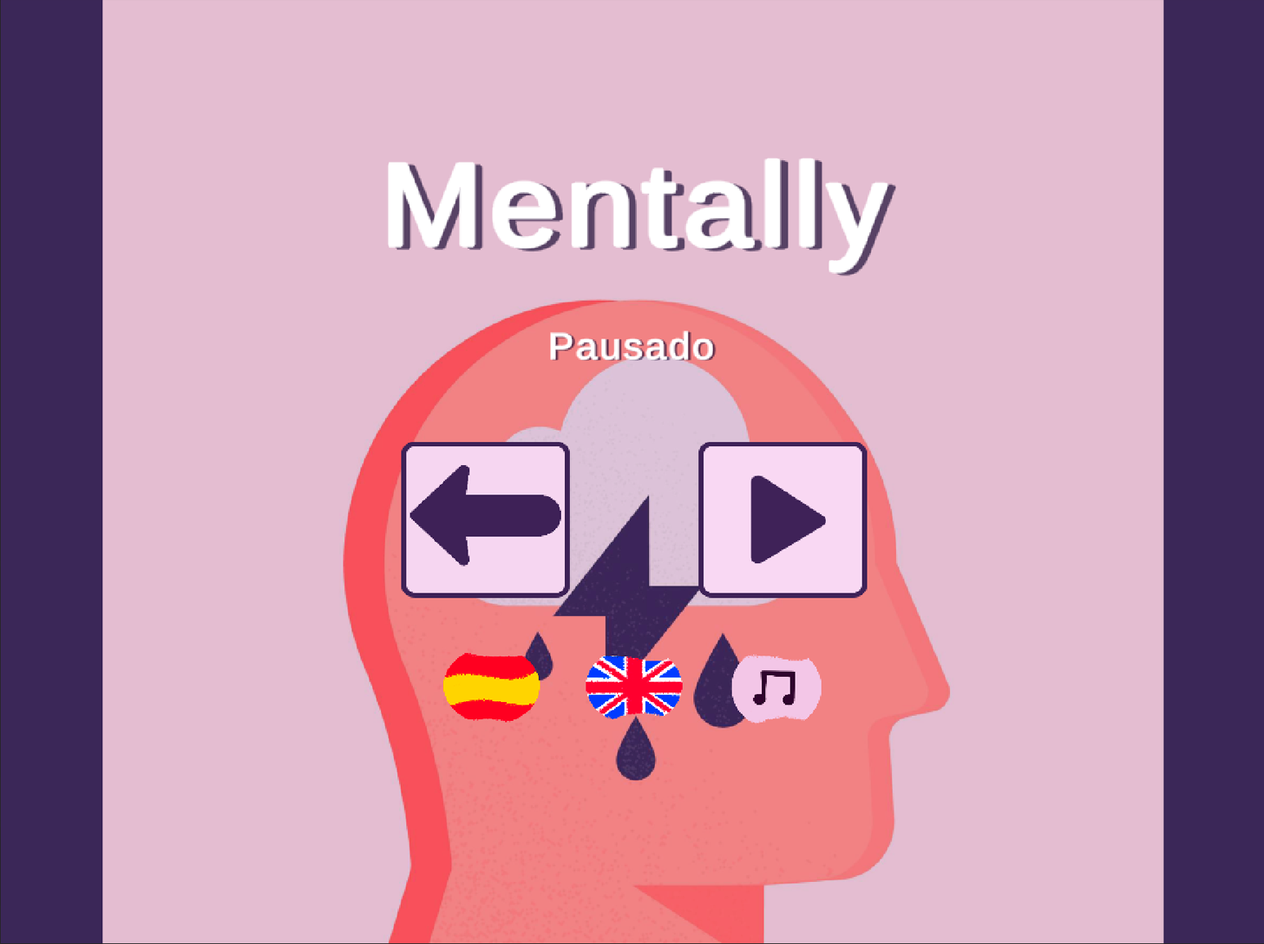
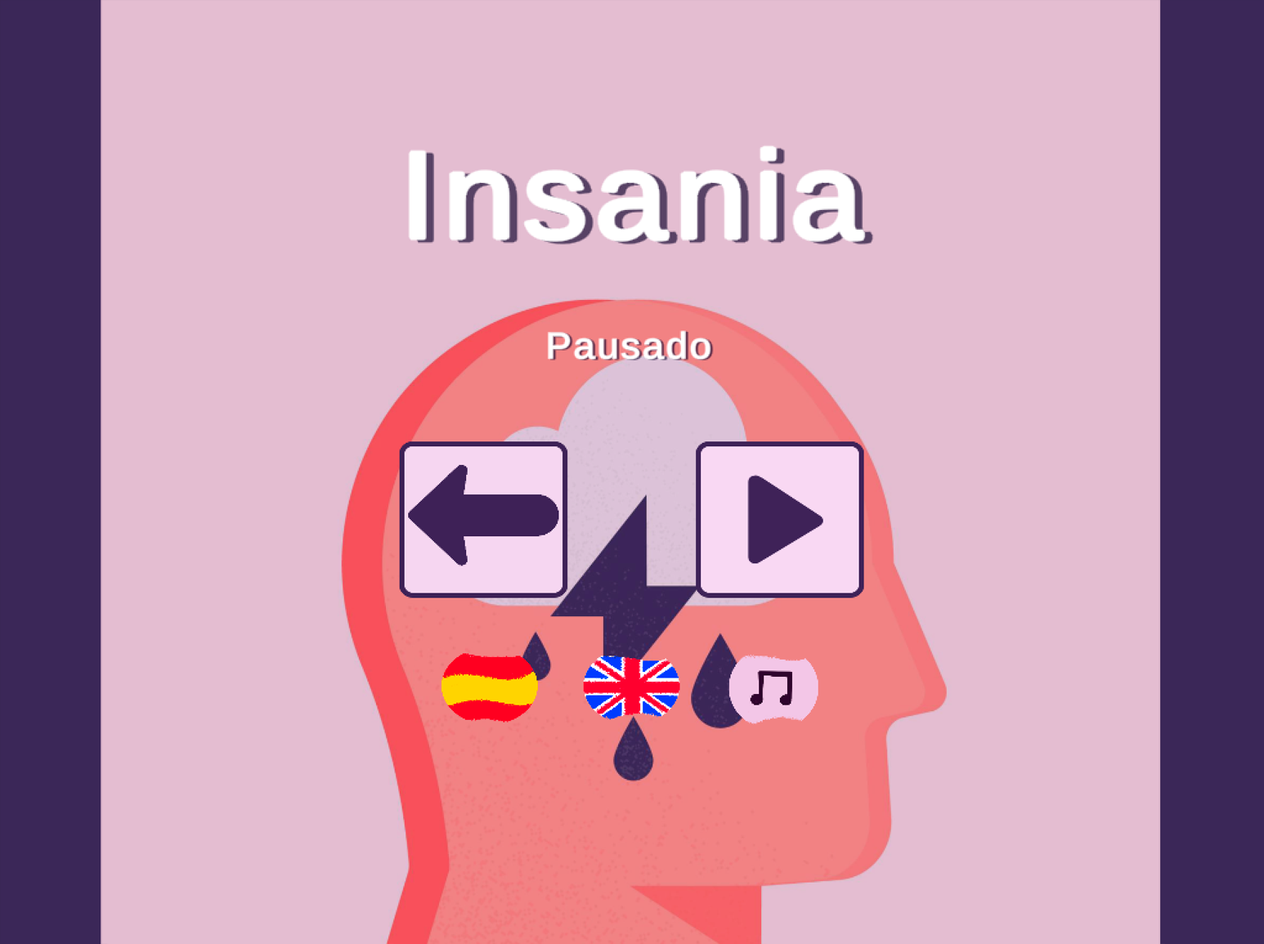
Modificación objetivos + cambio nombre

diff --git a/0410.tex b/0410.tex
@@ -310,20 +310,24 @@ Hasta hace unos años, la mayoría de las representaciones de enfermedades menta
 
 
 \section{Objetivos principales}
-    Los objetivos principales de este trabajo son investigar y analizar cuál es la situación actual con respecto a los videojuegos y la representación que hacen de las enfermededades mentales. Se comprobará también qué enfermedades suelen representarse y de qué forma. Además, se observará cómo ha ido variando a lo largo del tiempo esta representación.
+
+    Los objetivos principales de este trabajo son investigar y analizar cuál es la situación actual con respecto a los videojuegos y la representación que hacen de las enfermededades mentales, dado que a primera vista se considera insuficiente. Se comprobará también qué enfermedades suelen representarse y de qué forma. Además, se observará cómo ha ido variando a lo largo del tiempo esta representación.
     
-    A raíz del análisis de la representación de las enfermedades mentales, se investigará también cómo puede afectar una mejor o peor representación para la sociedad. Aparte de esto, cómo pueden ayudar en general los videojuegos y qué puede hacerse para desarrollar videojuegos más correctos al tratar este tema.  
+    De ese modo se tendrá una base para realizar un prototipo de una experiencia jugable donde se apliquen los conocimientos obtenidos, se traten las enfermedades mentales menos representadas o que requieran más representación, y se mostrará una nueva forma de representar enfermedades mentales en videojuegos. En este caso, con una experiencia jugable que se centra en la enfermedad en sí.
     
    
     \section{Objetivos secundarios}
     
-    Una vez analizados los resultados obtenidos, se creará un prototipo de una experiencia jugable donde se apliquen los conocimientos obtenidos, se traten las enfermedades mentales menos representadas o que requieran más representación, y se mostrará una nueva forma de representar enfermedades mentales en videojuegos. En este caso, con una experiencia jugable que se centra en la enfermedad en sí. 
-    
-
-
-
+     Se analizará tanto el estado del arte de los videojuegos, en general, como la opinión de una serie de encuestados, para conocer la frecuencia con la que se conocen videojugeos que muestren enfermedades mentales y cómo se sienten con respecto a estas representaciones. Esto se podrá encontrar, tanto en la sección \ref{sec:estadoArte} como en la sección \ref{sec:encuestaVid}.       
+       
+     A raíz del análisis de la representación de las enfermedades mentales, se investigará también cómo puede afectar una mejor o peor representación para la sociedad. Aparte de esto, cómo pueden ayudar en general los videojuegos y qué puede hacerse para desarrollar videojuegos más correctos al tratar este tema.   
+     
+     Para el desarrollo del prototipo se realizará un diseño del videojuego, que se puede encontrar en la sección \ref{sec:diseño} tanto software como de las artes, diseñando los personajes su historia, motivo de su creación, trasfondo, etc. en base a los estudios previamente realizados. 
+     
+     Finalmente, se creará una evaluación del prototipo para corregir los defectos reportados así como las mejoras propuestas por los encuestados, que se puede encontrar en la sección \ref{sec:encuestaDemo}. 
+  
 \chapter{Estado del arte}
-
+\label{sec:estadoArte}
 \section{Análisis de videojuegos}
 
 Para el análisis de videojuegos se han escogido videojuegos desde los años 80 a la actualidad donde se represente algún tipo de enfermedad o trastorno mental, bien de forma explícita o implícita, bien estando la historia basada en la propia enfermedad o apareciendo en personajes secundarios, etc. Esta selección se ha hecho en base al conocimiento sobre ellos, la información que se ha podido recabar, su importancia, y otros motivos. Seguro que se quedan muchos otros videojuegos fuera del estudio, no obstante, el análisis se hará finalmente sobre 56 títulos, siendo uno de ellos la demo desarrollada para este TFG, para la cual se han tenido en consideración los resultados del análisis sobre el resto de videojuegos. 
@@ -828,16 +832,19 @@ En este caso, parece que hicieron un buen trabajo, pues recibieron una gran cant
 
 \chapter{Metodología}
 
-En primer lugar, la planificación seguida ha sido aproximadamente la siguiente \ref{fig:planificacion}. 
 
 \begin{figure}
-    \centering
-    \includegraphics[width=.8\linewidth]{TGF/Extra/Planificación.png}
-    \caption{Planificación del TFG}
-    \label{fig:planificacion}
+	\centering
+	\includegraphics[width=1\linewidth]{TGF/Extra/Planificación.png}
+	\caption{Planificación del TFG}
+	\label{fig:planificacion}
 \end{figure}
 
 
+En primer lugar, la planificación seguida ha sido aproximadamente la siguiente \ref{fig:planificacion}. 
+
+
+\section{Herramientas utilizadas}
 En cuanto a las herramientas utilizadas, el proyecto ha sido realizado en Unity \cite{unity}, un motorde videojuegos multiplataforma creado por Unity Technologies. La programación que ofrece este entorno se realiza en C\#. La licencia utilizada ha sido Unity Education. 
 
 Por otro lado se ha utilizado 3dsMax 2022 \cite{3dsmax} para la creación y modificación de algún modelo 3D. 3dsMax es un programa de Autodesk para la creación de gráficos y animación 3D. La licencia utilizada ha sido la educacional, que ofrece un año gratuito en el uso del software. 
@@ -865,19 +872,32 @@ Para la recogida de información y organización se han utilizado tanto Google D
 
 Con respecto a la integración continua en el proyecto, se ha hecho uso de Github \cite{github}, una herramienta de control de versiones, que hace uso de Git \cite{git}, donde se ha ido subiendo periódicamente el código y configuración del proyecto para que se tuviera acceso en todo momento. Se ha utilizado la versión de uso libre. 
 
-Se ha utilizado Github Desktop \cite{githubdesk} para hacer las subidas a Github con un mayor control sobre los archivos que se subían, mayor facilidad a la hora de hacerlo, etc. 
+Se ha utilizado Github Desktop \citetitle{githubdesk} para hacer las subidas a Github con un mayor control sobre los archivos que se subían, mayor facilidad a la hora de hacerlo, etc. 
 
-Por último, para la búsqueda de recursos se ha utilizado Turbosquid \cite{turbo}, freepik \cite{freepik} y CGTrader \cite{CGTrader}, entre otros. 
-
-
+Por último, para la búsqueda de recursos se ha utilizado Turbosquid \citetitle{turbo}, freepik \citetitle{freepik} y CGTrader \citetitle{CGTrader}, entre otros. 
 
 
-\chapter{Diseño de la demo}
 
+
+\chapter{Diseño y desarrollo de ``Insania''}
+
+Gracias a la información recabada durante la investigación, que puede encontrarse tanto en la sección \ref{sec:estadoArte} como en la encuesta realizada que se puede encontrar en la sección \ref{sec:encuestaVid}, se ha diseñado y desarrollado un prototipo de videojuego que trata diferentes enfermedades mentales. 
+
+En este prototipo, llamado ``Insania'', por su significado en latín, ``locura'', se podrá experimentar un poco cómo es vivir con determinados trastornos mentales, un trastorno de la conducta alimentaria, el trastorno de ansiedad social y la depresión. 
+
+La finalidad es la representación y validación de las experiencias de estos personajes, de forma que los jugadores puedan sentirse identificados y, de ese modo, validados, por ellos mismos. En algunos casos puede ser duro enfrentarse a ciertos comentarios si se han llegado a tener o se tienen en algún momento, pero otras personas podrán considerar a estos personajes unos compañeros de batallas que pueden darles fuerza.
+
+Se quiere, además, concienciar de que, pese a que no seamos psicólogos, podemos darnos cuenta de algunos detalles que pueden hacer saltar las alarmas y dar apoyo a quien creamos que puede estar pasando por algún mal momento. 
+
+Es frecuente escuchar a la gente hacer comentarios sobre ``lo poco que come alguien'', escuchar un ``no voy a hablar por ti, si lo quieres, entra tú y lo pides'', cuando una persona probablemente tiene pánico a entrar en sitios con gente y hablar con desconocidos o ``pero por qué estás triste, si todo te va bien''. Invalidar los problemas de los demás o no percibir que algo puede estar pasando puede hacer que esos trastornos vayan a más y las personas se recluyan aún más y lo sufran en soledad al sentirse atacados ``en público''. 
+
+Además, el problema muchas veces no viene simplemente de la falta de empatía o de querer hacer daño, viene de la falta de información, de no saber que ese comentario puede hacer sentir mal, de que, que una persona nunca quiera comer con gente puede significar algo más que ``que no tenga hambre''. Sin conocimiento se pueden decir muchas palabras dañinas sin saber que lo son, por eso cuanto más se hable de salud mental, mejor será para todos. 
+
+\label{sec:diseño}
 \section{Diseño general}
-Partiendo del estudio previo realizado, analizando qué enfermedades se representan en videojuegos, de qué forma se hace y cómo es percibido por el público, tanto gente que las sufre como quienes no saben nada sobre ellas, se ha realizado una demo tratando de plasmar algunas de las enfermedades de las que menos se habla. 
+Partiendo del estudio previo realizado, analizando qué enfermedades se representan en videojuegos, de qué forma se hace y cómo es percibido por el público, tanto gente que las sufre como quienes no saben nada sobre ellas, se ha realizado un prototipo de videojuego, tratando de plasmar algunas de las enfermedades de las que menos se habla. 
 
-Por ese motivo en la demo se tratan tres enfermedades diferentes, y se muestra en cierta medida cómo es vivir con ellas. Estas enfermedades son un TCA, que, volviendo al estudio de videojuegos previamente realizado en la seccion \ref{sec:enfermedades}, sólo se mostraba en dos videojuegos, siendo uno de ellos esta misma demo y el otro, en \citetitle{darkest15}, donde los personajes pueden padecer bulimia, que les hace es recuperar menos vida cuando acampan. (\citetitle{darkest15} es un videojuego donde el jugador selecciona un grupo de personajes que deben ir de expedición a una mazmorra, en la cual se tienen que enfrentar a enemidos en un combate por turnos. Si la mazmorra es muy grande podrán descansar en un campamento donde pueden recuperar vida y cordura utilizando habilidades o comida, de ahí el hecho de que un personaje bulímico recupere menos vida en un campamento). Sin embargo no se trata la enfermedad como tal, sólo se hace un pequeño guiño. 
+Por ese motivo en la demo se tratan tres enfermedades diferentes, y se muestra en cierta medida cómo es vivir con ellas. Estas enfermedades son un TCA, que, volviendo al estudio de videojuegos previamente realizado en la seccion \ref{sec:enfermedades}, sólo se mostraba en dos videojuegos, siendo uno de ellos esta misma demo y el otro, en \citetitle{darkest15}, donde los personajes pueden padecer bulimia, que les hace es recuperar menos vida cuando acampan. (\citetitle{darkest15} es un videojuego donde el jugador selecciona un grupo de personajes que deben ir de expedición a una mazmorra, en la cual se tienen que enfrentar a enemidgs en un combate por turnos. Si la mazmorra es muy grande podrán descansar en un campamento donde pueden recuperar vida y cordura utilizando habilidades o comida, de ahí el hecho de que un personaje bulímico recupere menos vida en un campamento). Sin embargo no se trata la enfermedad como tal, sólo se hace un pequeño guiño. 
 
 En el caso de la segunda enfermedad seleccionada, es el TAS (Trastorno de Ansiedad Social), enfermedad presente en tan sólo 4 de los videojuegos analizados, de nuevo siendo uno esta misma demo. Algunos de los videojuegos donde se representa son \citetitle{sym15} o \citetitle{lifeisstrange18}. Por ejemplo, \citetitle{sym15}, es un videojuego que explora la ansiedad social, representando al personaje en un laberinto dividido en dos submundos, uno que representa la vida normal y otro el lugar donde escapar de sus miedos. 
 
@@ -885,25 +905,15 @@ Por último, se ha escogido la depresión, en este caso no por la falta de repre
 
 Las representaciones de la depresión suelen ser exageraciones de la realidad, de los síntomas, y de quienes lo padecen. Sin embargo, es una enfermedad que se sufre de muchas formas diferentes, y mucha gente la vive en silencio, sin saber que la padece, con mucho sufrimiento y sin pedir ningún tipo de ayuda, pues consideran que ``no están tan mal para tener depresión'', otros que ``eso es de flojos'' o incluso no consideran que sus problemas sean realmente importantes comparado con los de los demás y no tienen derecho a estar mal y quejarse. Mucha de esta gente acaba con tentativas de suicidio o sucumbiendo a él, y es por ello que ninguna representación es suficiente, y cuanta más representación y más diversa ésta sea, más gente se podrá ver reflejado y podrá entender qué le pasa y que la mejor solución es pedir ayuda y que no pasa nada por no estar bien y que se puede hablar de ello. 
 
-Con esta demo, en definitiva, se quiere tratar de hablar de otras enfermedades, que quienes la jueguen experimenten experiencias que pueden haber vivido si no por ellos mismos, por gente a la que conocen pero desconocían que podía deberse a algún problema. Se quiere concienciar de que, pese a que no seamos psicólogos, podemos darnos cuenta de algunos detalles que pueden hacer saltar las alarmas y dar apoyo a quien creamos que puede estar pasando por algún mal momento. 
-
-Es frecuente escuchar a la gente hacer comentarios sobre ``lo poco que come alguien'', escucuchar un ``no voy a hablar por ti, si lo quieres, entra tú y lo pides'', cuando una persona probablemente tiene pánico a entrar en sitios con gente y hablar con desconocidos o ``pero por qué estás triste, si todo te va bien''. Invalidar los problemas de los demás o no percibir que algo puede estar pasando puede hacer que esos trastornos vayan a más y las personas se recluyan aún más y lo sufran en soledad al sentirse atacados ``en público''. 
-
-Además, el problema muchas veces no viene simplemente de la falta de empatía o de querer hacer daño, viene de la falta de información, de no saber que ese comentario puede hacer sentir mal, de que, que una persona nunca quiera comer con gente puede significar algo más que ``que no tenga hambre''. Sin conocimiento se pueden decir muchas palabras dañinas sin saber que lo son, por eso cuanto más se hable de salud mental, mejor será para todos. 
 
 
-
-\subsection{Descripción breve}
-En esta demo se podrá experimentar un poco cómo es vivir con cada uno de los tratornos mencionados, un trastorno de la conducta alimentaria, trastorno de ansiedad social y depresión. 
-
-No se pretende generalizar y considerar como únicas estas vivencias, simplemente dar una nueva perspectiva. 
 
 \subsection{Personajes y trastornos}
 
 
-La demo cuenta con tres personajes diferentes, cada uno de ellos seleccionable para disfrutar de una diferente experiencia de juego. Cada personaje padece un trastorno o enfermedad mental diferente, de forma que vivirán las situaciones que se le plantean y tendrá un comportamiento diferente teniendo esto en cuenta.  
+El prototipo cuenta con tres personajes diferentes, cada uno de ellos seleccionable para disfrutar de una diferente experiencia de juego. Cada personaje padece un trastorno o enfermedad mental diferente, de forma que vivirán las situaciones que se le plantean y tendrá un comportamiento diferente teniendo esto en cuenta.  
 
-\textbf{Personaje 1}: (nombre). Este personaje padecerá un trastorno de la conducta alimentaria (TCA). 
+\textbf{Personaje 1}: Este personaje padecerá un trastorno de la conducta alimentaria (TCA). Su diseño puede encontrarse en la sección \ref{sec:diseñoPersonajes}.
 
 \begin{itemize}
     \item {\textbf{Descripción del trastorno:}   Estas enfermedades ``se caracterizan por una conducta alterada frente a la ingesta alimentaria o la aparición de conductas para controlar el peso'' \cite{tcasdescripcion}. Estos trastornos están relacionados, generalmente, con la autopercepción y la distorsión de la imagen corporal \cite{tcaCM}. Los diferentes tipos de trastornos de la conducta alimentaria son los siguientes: 
@@ -947,7 +957,7 @@ La demo cuenta con tres personajes diferentes, cada uno de ellos seleccionable p
 
 
 
-\textbf{Personaje 2}: (nombre). Este personaje padecerá un trastorno de ansiedad social (TAS). 
+\textbf{Personaje 2}: Este personaje padecerá un trastorno de ansiedad social (TAS). Su diseño puede encontrarse en la sección \ref{sec:diseñoPersonajes}.
 
 \begin{itemize}
     \item {\textbf{Descripción del trastorno:}
@@ -1000,14 +1010,14 @@ Al enseñar este trastorno se pretende dar visibilidad al sufrimiento de muchas 
 
 
 
-\textbf{Personaje 3}: (nombre). Este personaje padecerá depresión
+\textbf{Personaje 3}: Este personaje padecerá depresión. Su diseño puede encontrarse en la sección \ref{sec:diseñoPersonajes}.
 
 \begin{itemize}
     \item {\textbf{Descripción del trastorno:}
      La depresión es un trastorno del estado del ánimo, transitorio o permanente, que se caracteriza por un sentimiento de tristeza o pérdida de interés en realizar cualquier tipo de actividad. Existe la posibilidad de tener dificultad incluso para realizar las actividades cotidianas. Entre los síntomas, se encuentran una gran cantidad y variedad de ellos, pese a que no tengan por qué sufrirse todos ellos. Algunos de esos síntomas son el sentimiento de tristeza o vacío, pérdida de interés en cualquier tipo de actividad, alteraciones del sueño, cansancio y falta de energía, trastornos en la conducta alimentaria, bien por la falta del apetito o por los antojos de comida, que suponen una pérdida o ganancia de peso. También puede sentirse ansiedad (de hecho, es típico sufrir de este trastorno junto con el trastorno de ansiedad generalizada), dificultad de concentración o en la toma de decisiones, dolores físicos, e incluso pensamientos o intentos suicidas. Es una enfermedad que suele presentarse con una frecuencia que es casi el doble en el caso de las mujeres que en el de los hombres. 
      Existen diferentes tipos de depresión, entre ellas se encuentran: 
          \begin{itemize}
-            \item {\textbf{Trastorno depresivo mayor:} previo a este episodio pueden experimentarse otros síntomas como la ansiedad, fobias, o ataques de pánico. En función de si existe un único episodio o más, se considerará, “trastorno depresivo mayor de episodio único”, o bien “trastorno depresivo mayor recurrente”. Se caracteriza por la presencia de algunos o todos los siguientes síntomas durante, al menos, dos semanas:  un bajo estado de ánimo durante la mayor parte del día y de los días, pérdida o aumento del apetito, disminución de la capacidad de disfrute, sensación de debilidad, sentimientos de inutilidad o culpa, insomnio o hipersomnio (dormir más o menos de lo habitual), etc. }
+            \item {\textbf{Trastorno depresivo mayor:} previo a este episodio pueden experimentarse otros síntomas como la ansiedad, fobias, o ataques de pánico. En función de si existe un único episodio o más, se considerará, ``trastorno depresivo mayor de episodio único'', o bien ``trastorno depresivo mayor recurrente''. Se caracteriza por la presencia de algunos o todos los siguientes síntomas durante, al menos, dos semanas:  un bajo estado de ánimo durante la mayor parte del día y de los días, pérdida o aumento del apetito, disminución de la capacidad de disfrute, sensación de debilidad, sentimientos de inutilidad o culpa, insomnio o hipersomnio (dormir más o menos de lo habitual), etc. }
             \item {\textbf{Trastorno distímico:} los criterios o síntomas son similares al caso anterior, con la mayor diferencia de que se poseen durante un mínimo de dos años, pudiendo no existir alguno de ellos durante no más de dos meses seguidos. Además, se considera este tipo de trastorno si no existen antecedentes de otras enfermedades o se presentan los criterios de otras enfermedades como trastorno bipolar, esquizofrenia, etc.}
             \item {\textbf{Trastorno adaptativo o depresión reactiva (ansiedad y ánimo depresivo:} la aparición de la sintomatología suele venir en respuesta a un acontecimiento estresante, siendo esta respuesta “desproporcionada” para ese factor estresante. }    
              \item {\textbf{Trastorno depresivo no especificado: }  se considerará aquella situación en la que se presentan algunos de los síntomas depresivos, pero no suficientes para el diagnóstico de ninguno de los otros trastornos. A veces por el solapamiento con un trastorno por ansiedad, un trastorno disfórico premenstrual, trastorno afectivo estacional, etc. }
@@ -1030,7 +1040,7 @@ Este tiempo de mayor soledad le ha hecho tener tiempo para encontrarse con sus p
 Desde que va a terapia, está intentando averiguar cuáles han podido ser los motivos que hayan desencadenado el sentirse así y no encontrar nada que mejore su estado de ánimo. Han empezado a hablar de su infancia, la cual recuerda como una infancia feliz, de no ser por un par de recuerdos en el colegio que le produjeron cierto malestar. Tuvo una familia estructurada, nunca le faltó de nada, estudió siempre lo que quiso. Tenía amigos, en algunas épocas más que en otras, pero nunca se sintió alejada de los demás. Ahora mismo se encuentra trabajando, quizá no en el trabajo que más satisfacción le causa, pero se siente agradecida de haber encontrado ese trabajo donde hay buenos compañeros y con el que puede pagar el alquiler. 
 Además, comparte piso con su mejor amigo, que es la única persona a la que ve últimamente, aunque poco porque sus horarios son muy diferentes. Pese a no descubrir la razón, la terapeuta le está dando recomendaciones e indicaciones para que siga preguntándose cosas e intente deshacer el nudo que tiene dentro y volver a tener y sentir que tiene una vida plena y feliz. De momento no ha sido derivada a psiquiatría y no está tomando medicación, pero no se descarta su uso si el problema continúa y la terapia cognitivo conductual sigue sin funcionar. 
 
-    Pese a que ( ) lo desconozca, la depresión es una enfermedad que lleva navegando entre generaciones en su familia por parte de madre a lo largo de los años. Su abuela la tenía, dos de sus tíos la tienen, su propia madre ha tenido episodios depresivos en algunos momentos de su vida. Como es un tema del que no hablan, desconoce este aspecto, lo cual le ha llevado a culparse aún más de sentirse mal ``teniendo todo en la vida''. 
+    Pese a que el personaje lo desconozca, la depresión es una enfermedad que lleva navegando entre generaciones en su familia por parte de madre a lo largo de los años. Su abuela la tenía, dos de sus tíos la tienen, su propia madre ha tenido episodios depresivos en algunos momentos de su vida. Como es un tema del que no hablan, desconoce este aspecto, lo cual le ha llevado a culparse aún más de sentirse mal ``teniendo todo en la vida''. 
    
     }
     
@@ -1118,17 +1128,16 @@ El diagrama de flujo puede encontrarse en la figura \ref{fig:diagramaflujo}.
 \section{Diseño de las artes}
 \subsection{Diseño gráfico y HUD}
 
-Para el diseño del juego se ha elegido una paleta de colores pastel, donde predomina el rosa claro. Esto es así por tratar un tema más ``suave'' o ``delicado''. La imagen principal se ha obtenido de \cite{imgInicio}. En cuanto al resto de elementos utilizados, se han creado con Photoshop, los botones, los iconos del diario, el diario abierto, las notas, etc. (Ver Figura \ref{fig:diarioNotas}). 
-
-Como se puede ver en las figuras, se ha intentado tener un diseño sencillo y claro, que no enturbie demasiado la pantalla de juego y que proporcione la información necesaria en cada momento. Además, se ofrecen botones para poder cambiar el idioma, haciendo el juego más accesible, poder encender o apagar la música, para garantizar un mayor control por parte del jugador, y para salir del juego en cualquier momento o reanudarlo, gracias al menú de pausa. 
-
 \begin{figure}
-    \centering
-    \includegraphics[width=.8\linewidth]{TGF/Artes/diarioNotas.png}
-    \caption{Diario con todas las notas}
-    \label{fig:diarioNotas}
+	\centering
+	\includegraphics[width=.8\linewidth]{TGF/Artes/diarioNotas.png}
+	\caption{Diario con todas las notas}
+	\label{fig:diarioNotas}
 \end{figure}
 
+Para el diseño del juego se ha elegido una paleta de colores pastel, donde predomina el rosa claro. Esto es así por tratar un tema más ``suave'' o ``delicado''. La imagen principal se ha obtenido de \cite{imgInicio}. En cuanto al resto de elementos utilizados, se han creado con Photoshop, los botones, los iconos del diario, el diario abierto, las notas, etc. (Ver Figura \ref{fig:diarioNotas}). 
+
+Como se puede ver en las figuras \ref{fig:UXInicio}, \ref{fig:UXSelec}, \ref{fig:UXPausa}, \ref{fig:UXHUD} y \ref{fig:UXHUD2}, se ha intentado tener un diseño sencillo y claro, que no enturbie demasiado la pantalla de juego y que proporcione la información necesaria en cada momento. Además, se ofrecen botones para poder cambiar el idioma, haciendo el juego más accesible, también para poder encender o apagar la música, para garantizar un mayor control por parte del jugador, y para salir del juego en cualquier momento o reanudarlo, gracias al menú de pausa. 
 
 Pantalla de inicio (Ver Figura \ref{fig:UXInicio})
 
@@ -1225,7 +1234,7 @@ En cuanto a las texturas, en algunos casos se han preservado la de los modelos o
   \caption{Mapa de UVs de la tarta}
 \end{subfigure}
 \caption{Mapas de UVs}
-\label{fig:texBed}
+\label{fig:texUvs}
 \end{figure}
 
 
@@ -1258,10 +1267,10 @@ En cuanto a las texturas, en algunos casos se han preservado la de los modelos o
 \end{figure}
 
 \subsubsection{Personajes}
+\label{diseñoPersonajes}
+Para los personajes, se ha partido de el modelado y animaciones del personaje \citetitle{refCharacter}, así como de las texturas a partir de las cuales se han diseñado la de los personajes utilizados. 
 
-Para los personajes, se ha partido de el modelado y animaciones de \cite{refCharacter}, así como de las texturas a partir de las cuales se han diseñado la de los personajes utilizados. 
-
- (   ) - Personaje con TCA 
+ Personaje 1 - Personaje con TCA 
  
  Mapa de UVs (Ver Figura \ref{fig:ArtesTCA1})
  
@@ -1301,7 +1310,7 @@ Para los personajes, se ha partido de el modelado y animaciones de \cite{refChar
 \end{figure}
 
 
- (   ) - Personaje con TAS
+Personaje 2 - Personaje con TAS
  
  Mapa de UVs (Ver Figura \ref{fig:ArtesTAS1})
  
@@ -1341,7 +1350,7 @@ Para los personajes, se ha partido de el modelado y animaciones de \cite{refChar
 \end{figure}
 
 
- (   ) - Personaje con Depresión
+Personaje 3 - Personaje con Depresión
  
  Mapa de UVs (Ver Figura \ref{fig:ArtesDEP1})
  
@@ -1380,7 +1389,7 @@ Para los personajes, se ha partido de el modelado y animaciones de \cite{refChar
 \end{figure}
 
 
- (   ) - Personajes extra
+Personajes extra
  
  Mapa de UVs (Ver Figura \ref{fig:ArtesEVIL1})
  
@@ -1869,10 +1878,10 @@ Finalmente, los comentarios sobre la encuesta pueden encontrarse en \hyperref[co
 
 
 \section{Encuesta sobre la demo}
+\label{sec:encuestaDemo}
+Cuando hubo un prototipo jugable, se realizó una encuesta para intentar mejorar ciertos aspectos que los encuestados encontraran problemáticos. 
 
-Cuando hubo una demo jugable, se realizó una encuesta para intentar mejorar ciertos aspectos que los encuestados encontraran problemáticos. 
-
-El link a la encuesta puede encontrarse en \citetitle{encuestaDemo}. 
+El link a la encuesta puede encontrarse en el link de la bibliografía \citetitle{encuestaDemo}. 
 
 En primer lugar se preguntó sobre el entendimiento del juego, si eran necesarios los controles, la adecuación de la música y efectos de sonido y por qué, la adecuación de los elementos del HUD y por qué o si han tenido algún problema durante la experiencia. 
 
@@ -1889,15 +1898,15 @@ Dado el bajo número de respuestas, no se cree necesario el uso de gráficas par
 
 De estos se obtuvo la necesidad de añadir los controles en el juego, dado que hay quienes lo consideraron muy necesario. Pese a que otros probadores no lo necesitaban, en el momento en que uno lo necesita es suficiente para añadirlos, pues no afecta a la jugabilidad de los demás y los que los necesitan pueden sacar provecho de ello. 
 
-En cuanto a la música, generalmente se consideró un uso adecuado, pero se echó en falta un control para poder quitarla si se quería. 
+En cuanto a la música, generalmente se consideró un uso adecuado, pero se echó en falta un control para poder quitarla si se quería, además se consideró que había que regular mejor el volumen de la música y los efectos de sonido, cosa que se hizo tras analizar la encuesta. 
 
-Por ese motivo, se añadió en el menú de pausa la opción de activar o desactivar la música del juego. 
+Dada la solicitud del control de la música, se añadió en el menú de pausa la opción de activar o desactivar la música del juego. 
 
-En cuanto al HUD, nadie ha tenido ningún problema con él y lo han considerado perfectamente adecuado. 
+En cuanto al HUD, nadie ha tenido ningún problema con él y lo han considerado perfectamente adecuado, a excepción del reloj, cuando este aún se mostraba permanentemente y no sólo en el momento de la visita, todavía no se había terminado de desarrollar ese aspecto del juego. 
 
-Tampoco ninguno se perdió durante la experiencia con el videojuego. 
+En cuanto a perderse en el juego, solo una de las personas consideró sentirse perdida por no tener claro al principio en qué consiste la experiencia o qué hacer. Sin embargo, reconoce que pudo seguir avanzando en el juego gracias a las tareas que aparecen en la esquina superior izquierda, por lo que no se considera un elemento a arreglar dado que es la intención buscada, que en un principio haya cierto desconcierto sobre qué se le presenta al jugador, pueda investigar el entorno y prestar atención a los mensajes del personaje.
 
-Por otro lado, encontraron varios problemas en el juego como que se podía atravesar la pared en un punto del escenario o que la luz tardaba mucho en enceder. Ambos se han tratado de resolver añadiendo más dureza al material y colocando otro objeto detrás de la pared, para resolver el primer problema, y acelerando la velocidad de encendido y apagado de las luces, para el segundo. 
+Por otro lado, encontraron varios problemas en el juego como que se podía atravesar la pared en un punto del escenario o que la luz tardaba mucho en encender. Ambos se han tratado de resolver añadiendo más dureza al material y colocando otro objeto detrás de la pared, para resolver el primer problema, y acelerando la velocidad de encendido y apagado de las luces, para el segundo. 
 
 La temática que han considerado que trata el juego es sobre trastornos o enfermedades mentales, ``Gente con problemas, uno se dicen cosas feas y se nota cuando uno va lento y todo alrededor lo ve gris, parece una depresión'', comentaba uno de los encuestados. 
 
